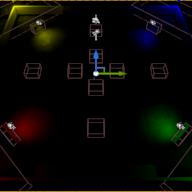
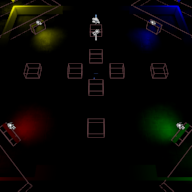
Target balls and bludger balls Wreck People

Changed region(s): [[0.0, 0.9688, 1.0, 1.0], [0.0, 0.0, 1.0, 0.0312], [0.4688, 0.25, 0.6562, 0.4062]]

diff --git a/BouncerBall/Source/BouncerBall/Balls/PlayerTargetingBall.cpp b/BouncerBall/Source/BouncerBall/Balls/PlayerTargetingBall.cpp
@@ -2,10 +2,27 @@
 
 #include "BouncerBall.h"
 #include "PlayerTargetingBall.h"
+APlayerTargetingBall::APlayerTargetingBall()
+{
+	
+	MovementComponent->HomingAccelerationMagnitude = 1100;
+}
+void APlayerTargetingBall::BeginPlay()
+{
+	Super::BeginPlay();
+	GetTarget();
+	MovementComponent->bIsHomingProjectile = true;
+}
 
+void APlayerTargetingBall::Tick(float DeltaSeconds)
+{
+	Super::Tick(DeltaSeconds);
 
-
-
+}
+void APlayerTargetingBall::RotateToTarget(float DeltaSeconds)
+{
+	
+}
 void APlayerTargetingBall::GetTarget()
 {
 	int8 i = 0;
@@ -18,34 +35,7 @@ void APlayerTargetingBall::GetTarget()
 		i++;
 
 	}
-	NumOfPlayers = i;
-	/*Iterate through all the players and checks their weight
-	the largest weight goes to the front if they have the same its a random pick between them
-	after it iterates through them all the player in the first index is chosen as the target*/
-	for (i = 1; i < NumOfPlayers; i++)
-	{
-
-		if (Players[i]->GetWeight() > Players[0]->GetWeight())
-		{
-			ABouncerPlayer *temp = Players[0];
-			Players[0] = Players[i];
-			Players[i] = temp;
-		}
-		else if (Players[i]->GetWeight() == Players[0]->GetWeight())
-		{
-			int RandomNumber = FMath::Rand() % 2;
-			if (RandomNumber == 0)
-			{
-				continue;
-			}
-			else
-			{
-				ABouncerPlayer *temp = Players[0];
-				Players[0] = Players[i];
-				Players[i] = temp;
-			}
-		}
-	}
-	CurrentTarget = Players[0];
+	CurrentTarget = Players[FMath::RandRange(0,i-1)]; 
 	CurrentTarget->SetWeight(CurrentTarget->GetWeight() - WEIGHT_COST);
+	MovementComponent->HomingTargetComponent = CurrentTarget->Collider;
 }

diff --git a/BouncerBall/Source/BouncerBall/Balls/PlayerTargetingBall.h b/BouncerBall/Source/BouncerBall/Balls/PlayerTargetingBall.h
@@ -12,10 +12,15 @@ UCLASS()
 class BOUNCERBALL_API APlayerTargetingBall : public ABall
 {
 	GENERATED_BODY()
+public:
+	APlayerTargetingBall();
+	virtual void BeginPlay() override;
 protected:
 	//Call to have the ball find a new target
 	UFUNCTION()
 	void GetTarget();
+	virtual void Tick(float DeltaSeconds) override;
+	void RotateToTarget(float DeltaSeconds);
 	//A reference to the current target of the ball
 	UPROPERTY()
 	ABouncerPlayer *CurrentTarget;

diff --git a/BouncerBall/Source/BouncerBall/Balls/BludgerBall.cpp b/BouncerBall/Source/BouncerBall/Balls/BludgerBall.cpp
@@ -4,5 +4,18 @@
 #include "BludgerBall.h"
 
 
+ABludgerBall::ABludgerBall()
+{
+	OnActorBeginOverlap.AddDynamic(this, &ABludgerBall::OnBeginOverlap);
+}
 
-
+void ABludgerBall::OnBeginOverlap(AActor* OtherActor)
+{
+	ABouncerPlayer* Player = Cast<ABouncerPlayer>(OtherActor);
+	if (Player)
+	{
+		HitCounter++;
+		if ((FMath::Rand()%3) < HitCounter)
+		GetTarget();
+	}
+}

diff --git a/BouncerBall/Source/BouncerBall/Balls/TargetBall.cpp b/BouncerBall/Source/BouncerBall/Balls/TargetBall.cpp
@@ -3,6 +3,16 @@
 #include "BouncerBall.h"
 #include "TargetBall.h"
 
+ATargetBall::ATargetBall()
+{
+	OnActorBeginOverlap.AddDynamic(this, &ATargetBall::OnBeginOverlap);
+}
 
-
-
+void ATargetBall::OnBeginOverlap(AActor* OtherActor)
+{
+	ABouncerPlayer* Player = Cast<ABouncerPlayer>(OtherActor);
+	if (Player)
+	{
+		GetTarget();
+	}
+}

diff --git a/BouncerBall/Source/BouncerBall/Balls/Ball.cpp b/BouncerBall/Source/BouncerBall/Balls/Ball.cpp
@@ -24,6 +24,7 @@ ABall::ABall() :ZPos(0.f)
 	MovementComponent->Bounciness = 1.0f;
 	MovementComponent->Friction = 0.0f;
 	MovementComponent->BounceVelocityStopSimulatingThreshold = 0.0f;
+	MovementComponent->MaxSpeed = 1000.f;
 	bStartedMoving = false;
 }
 void ABall::BeginPlay()

diff --git a/BouncerBall/Source/BouncerBall/Balls/BludgerBall.h b/BouncerBall/Source/BouncerBall/Balls/BludgerBall.h
@@ -13,7 +13,11 @@ class BOUNCERBALL_API ABludgerBall : public APlayerTargetingBall
 {
 	GENERATED_BODY()
 	
+public:
+	ABludgerBall();
+	UFUNCTION()
+	virtual void OnBeginOverlap(AActor* OtherActor);
 	
-	
-	
+private:
+	int8 HitCounter;
 };

diff --git a/BouncerBall/Source/BouncerBall/Balls/TargetBall.h b/BouncerBall/Source/BouncerBall/Balls/TargetBall.h
@@ -12,8 +12,11 @@ UCLASS()
 class BOUNCERBALL_API ATargetBall : public APlayerTargetingBall
 {
 	GENERATED_BODY()
-	
-	
+public:
+	ATargetBall();
+	UFUNCTION()
+	virtual void OnBeginOverlap(AActor* OtherActor);
+
 	
 	
 };
